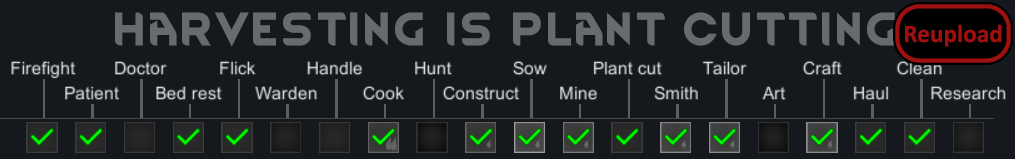
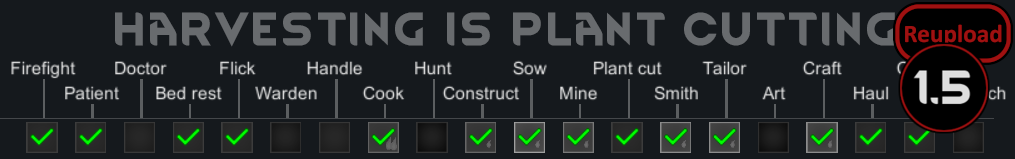
Mod updated for 1.5 and passed autotests

Changed region(s): [[0.8857, 0.3019, 0.9773, 0.8553], [0.9163, 0.2767, 0.9468, 0.3019]]

diff --git a/README.md b/README.md
@@ -28,11 +28,13 @@ Special thanks to kaptain_kavern for his mod "Corrected WorkGivers" which I took
 
 -  See if the the error persists if you just have this mod and its requirements active.
 -  If not, try adding your other mods until it happens again.
--  Post your error-log using https://steamcommunity.com/workshop/filedetails/?id=818773962]HugsLib and command Ctrl+F12
+-  Post your error-log using https://steamcommunity.com/workshop/filedetails/?id=818773962]HugsLib or the standalone https://steamcommunity.com/sharedfiles/filedetails/?id=2873415404]Uploader and command Ctrl+F12
 -  For best support, please use the Discord-channel for error-reporting.
 -  Do not report errors by making a discussion-thread, I get no notification of that.
 -  If you have the solution for a problem, please post it to the GitHub repository.
+-  Use https://github.com/RimSort/RimSort/releases/latest]RimSort to sort your mods
 
 
 
+https://steamcommunity.com/sharedfiles/filedetails/changelog/2217516817]![Image](https://img.shields.io/github/v/release/emipa606/HarvestingIsPlantCutting?label=latest%20version&style=plastic&color=9f1111&labelColor=black)
 
